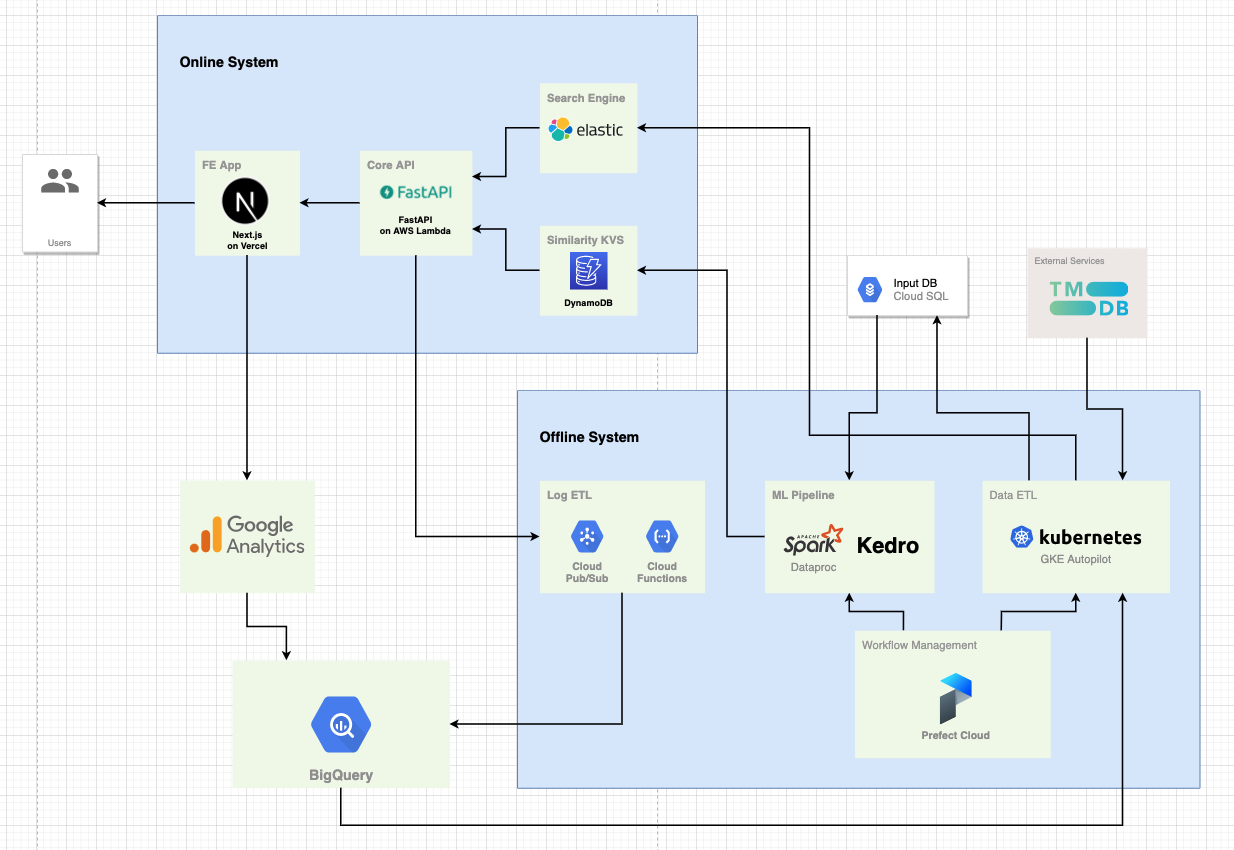
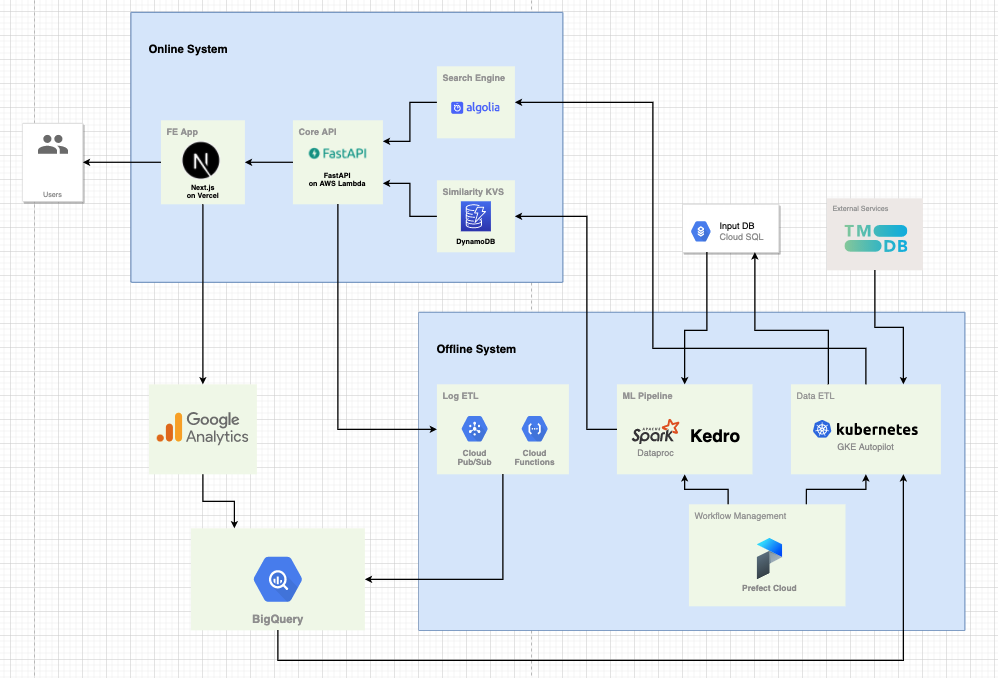
add migration docs

diff --git a/docs/migration/移行計画.md b/docs/migration/移行計画.md
@@ -1,0 +1,18 @@
+# 移行計画
+
+現在、下記のアーキテクチャ上の問題を解決するために、プラットフォームの移行を準備中です。
+
+## 現在の問題点
+
+- 問題: オンラインで運用している、検索サーバ(Solr)、KVS(Redis)、API のコストが大きい。
+  - 解決: 時間課金のプラットフォームから、リクエスト数による課金プラットフォームに移行する
+- 問題: 検索サーバの可用性に不安がある
+  - 解決: 安定した SaaS 系プロダクトである Algolia へ移行する
+
+## 現在のアーキテクチャ
+
+![現在](https://github.com/yuya-okada527/ml-playground/blob/develop/docs/migration/images/AS_IS.png)
+
+## 移行後のアーキテクチャ
+
+![移行後](https://github.com/yuya-okada527/ml-playground/blob/develop/docs/phase2/images/phase2.png)

diff --git a/README.md b/README.md
@@ -16,9 +16,11 @@
 - コストパフォーマンス
 - エンド to エンドの評価
 
-## 全体構成(移行中)
+## 全体構成
 
-![全体構成](https://github.com/yuya-okada527/ml-playground/blob/develop/docs/as_is/images/AS_IS.png)
+![全体構成](https://github.com/yuya-okada527/ml-playground/blob/develop/docs/migration/images/AS_IS.png)
+
+現在、
 
 ## データ分析パイプライン
 
